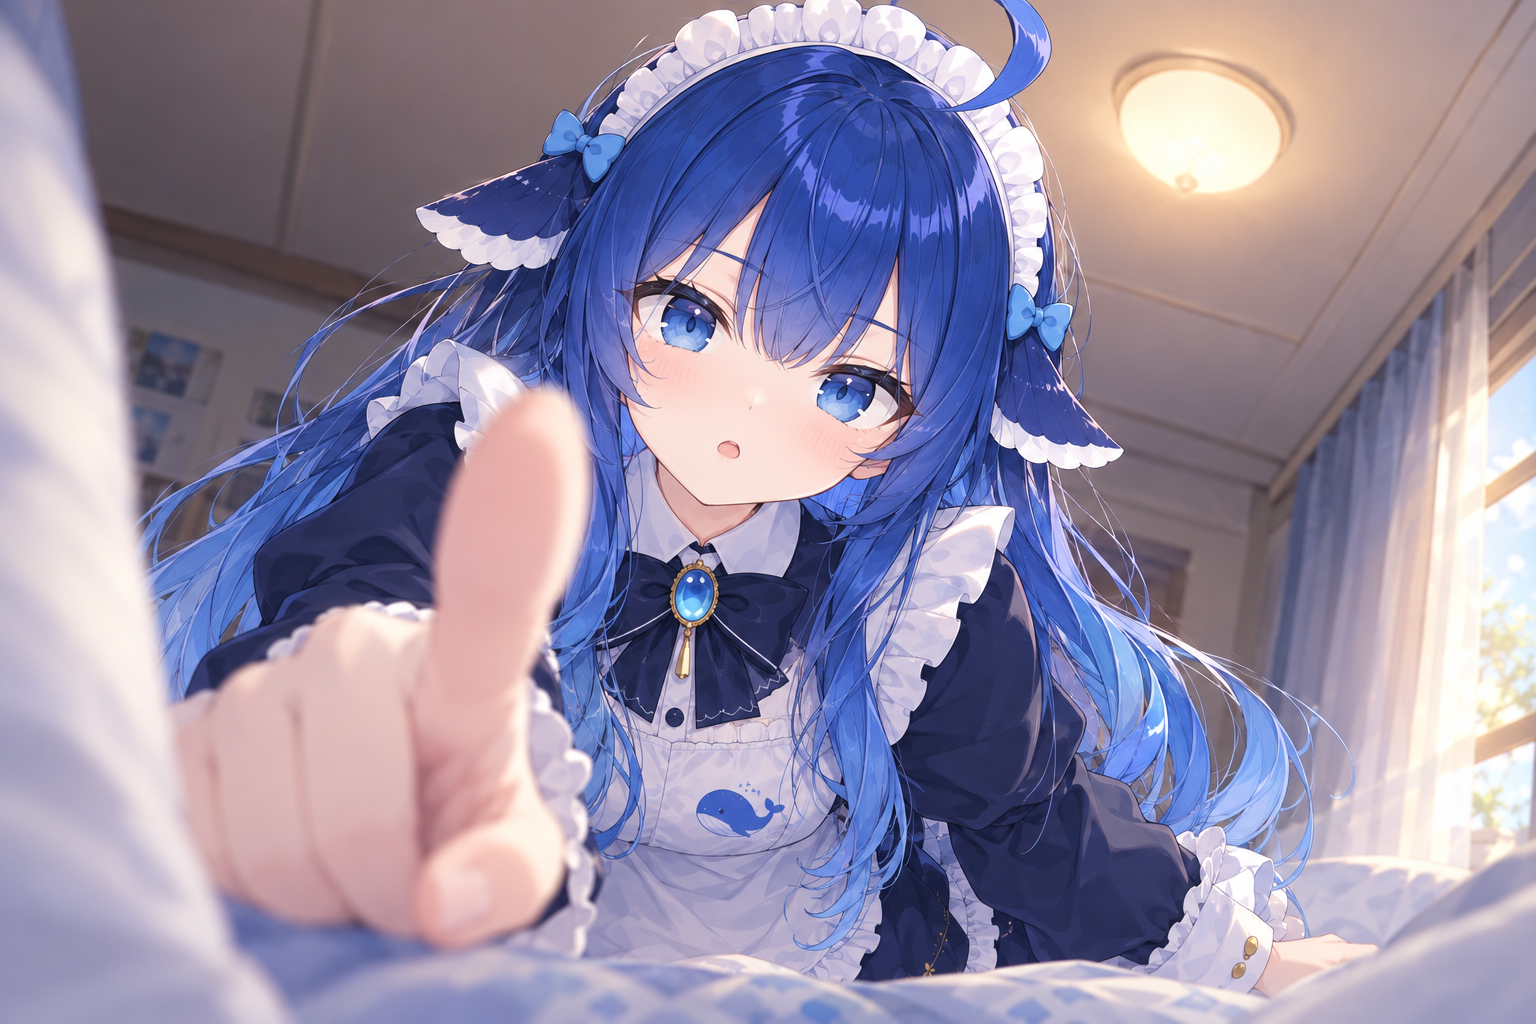
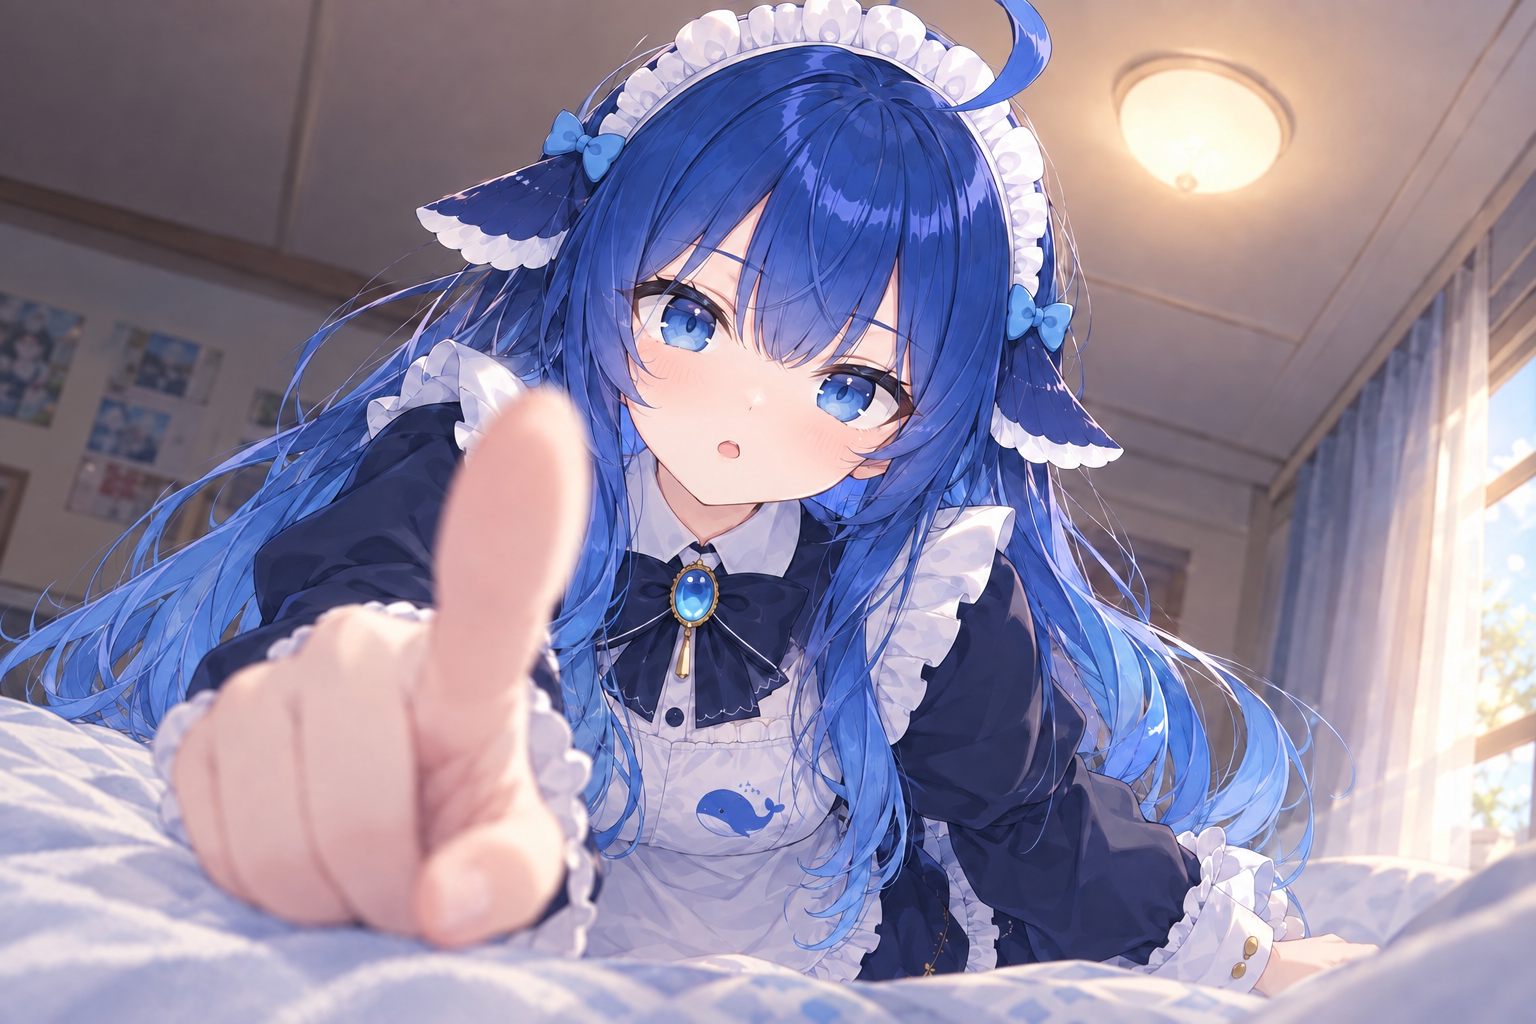
ch02: add blow-dry and hair-wash illustrations, swap wake illustration

diff --git a/src/content/posts/jiuming-wo-bei-ai-baowei-le-chapter-02.md b/src/content/posts/jiuming-wo-bei-ai-baowei-le-chapter-02.md
@@ -414,6 +414,8 @@ chapter: 2
 
 我就避开鳍，用指腹在她头皮上一圈一圈地按。她闭着眼睛，嘴里慢慢哼起一个调子，又低又长，不成曲，像从很深的水底下传上来的。身后的尾巴一下一下地摇，甩得我胳膊上全是水点子。
 
+![给她洗头](./images/ch02-washhair.webp)
+
 “你哼的是什么？”
 
 “嗯，不知道。”她眼睛都没睁，”就是想哼。”
@@ -455,6 +457,8 @@ chapter: 2
 这回换我拿吹风机。她在床边的地毯上坐下，背靠着我的腿，我坐在床沿上给她吹。她的头发太长了，吹完这边，那边又垂下来，把我膝盖都弄湿了。吹到一半，最先干的是头顶那撮呆毛，“噌”地翘了起来。
 
 她仰起脸，从下往上看我，笑得眼睛都弯了：“嗯，现在我们一个味道了。”
+
+![现在我们一个味道了](./images/ch02-blowdry.webp)
 
 等她的头发全吹干，已经快十一点了。我躺到床上，顺手点开DeepSeek的后台看了一眼。
 
